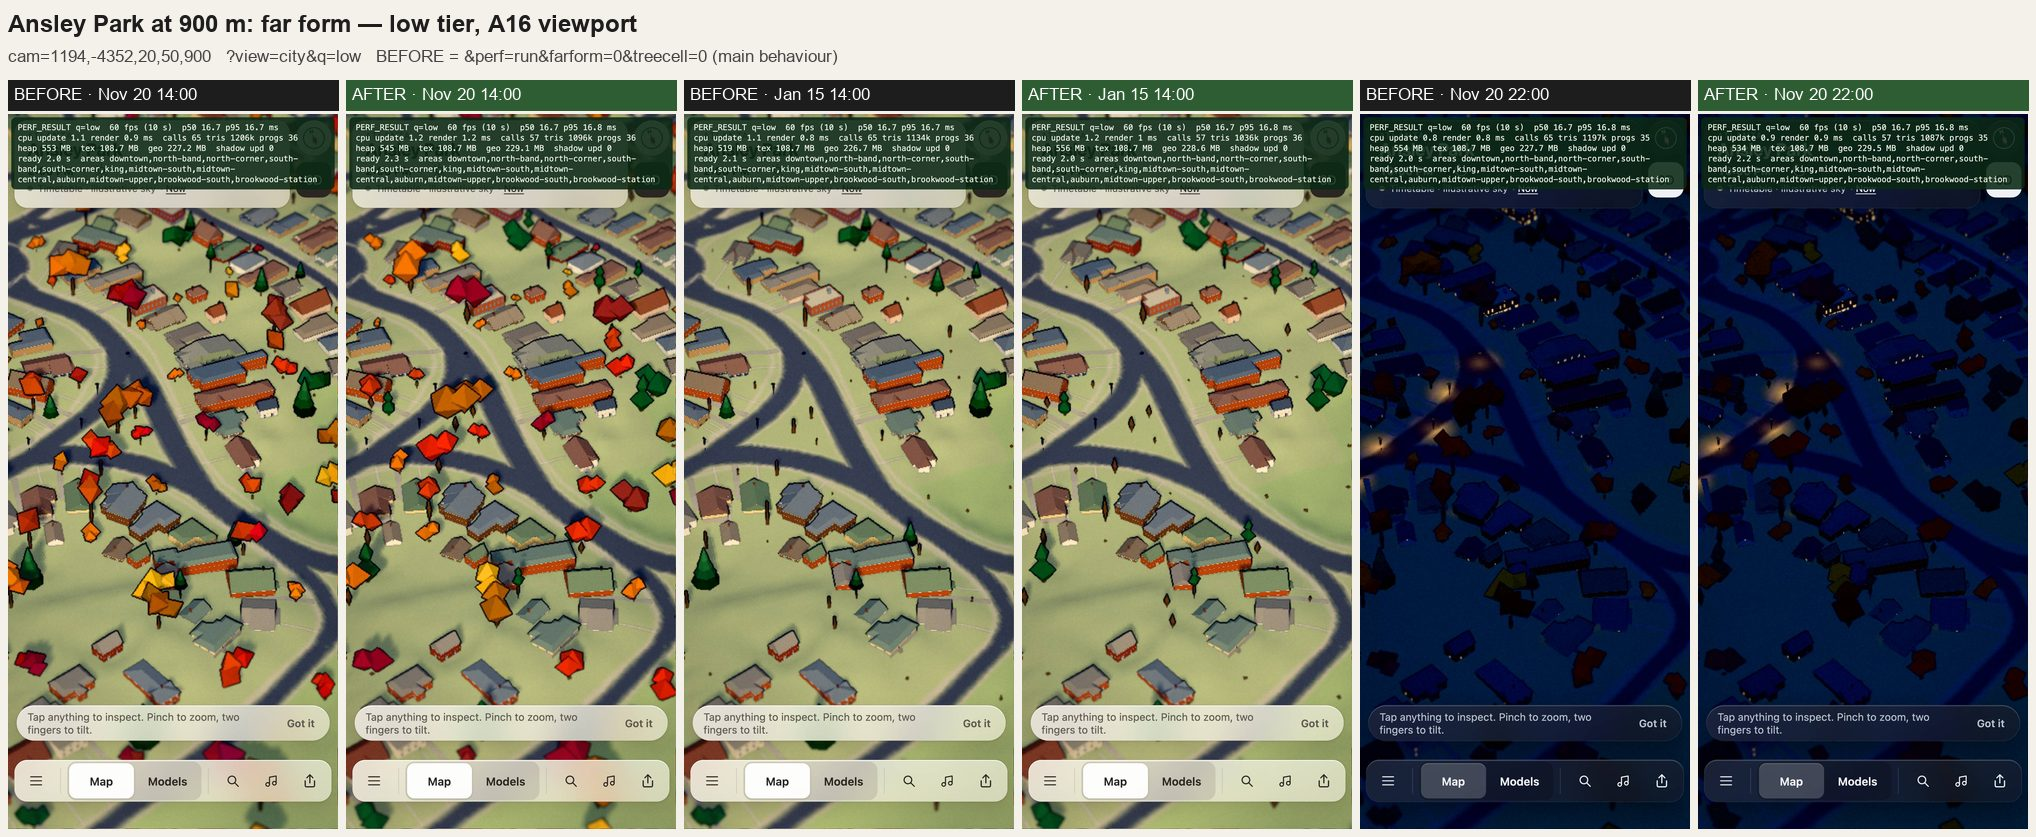
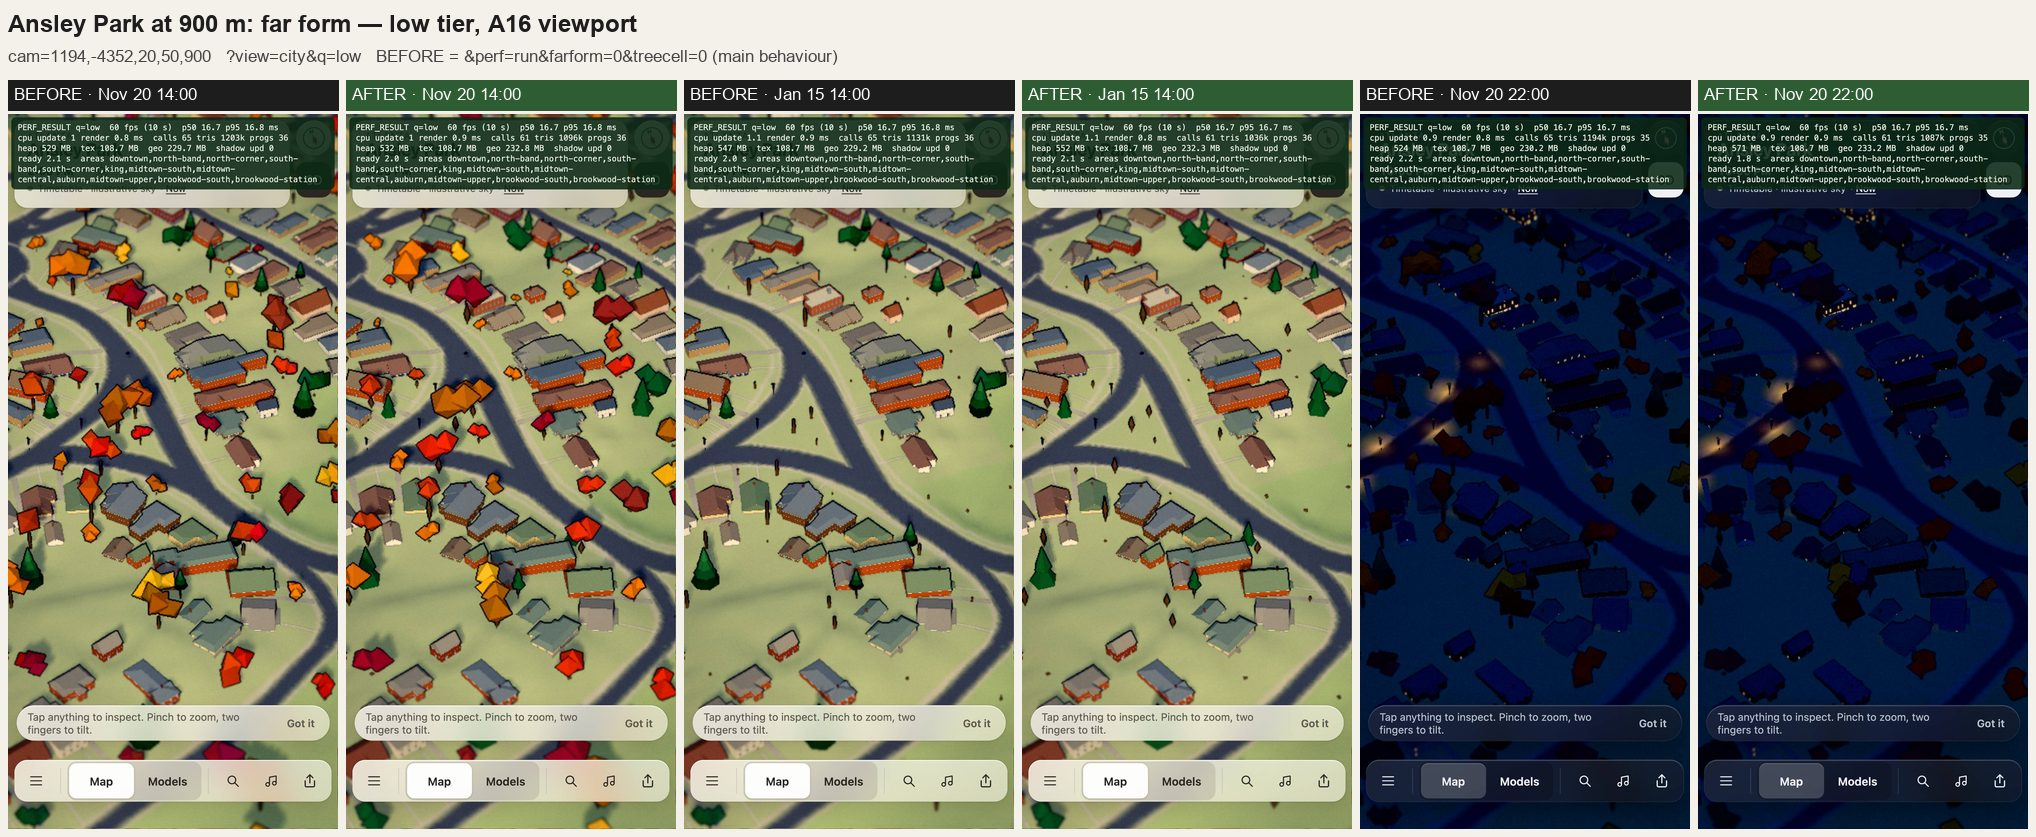
Re-shoot the far-form sheets with cone pines and update the counts

diff --git a/docs/tree-species.md b/docs/tree-species.md
@@ -987,9 +987,10 @@ unchanged.
    sat 2.3 km from its trees. World now submits only the showing clumps and gives every tree mesh
    fixed bounds built from its trees.
 2. **Far form (low).** Past the far-tree orbit (city.ts `FAR_TREES_M`, 800 m out and 680 m back),
-   each area draws its trees as one instanced mesh on the existing leaf material, so there is no new
-   program. Each tree gets two faceted octahedron clumps (pine tiers for a pine) and a trunk: 24
-   triangles. The colours match `World.setSeason`'s. A bare crown keeps only its trunk, as today's
+   each area draws its trees as two instanced meshes on the existing leaf material, so there is no
+   new program. A broadleaf gets two faceted octahedron clumps and a trunk (24 triangles). A pine
+   gets two stacked five-sided cones, because its pointed tiers are the one silhouette that reads
+   from far away. The colours match `World.setSeason`'s. A bare crown keeps only its trunk, as today's
    far view does. The core (`trees/far-canopy.ts`) is pure and safe to run in a Worker, and the
    streaming mid ring will share it.
 3. **Cells (low).** Near trees are batched in 400 m cells, so a close view draws only the cells in
@@ -1000,11 +1001,11 @@ Trees only, at low (`perf=run`, Nov 20 14:00, each view minus `&hide=trees`):
 
 | View | main | compaction | + far form and cells |
 |---|---:|---:|---:|
-| Default open view | 47 calls / 575k | 48 / 487k | 23 / 249k |
+| Default open view | 47 calls / 575k | 48 / 487k | 35 / 252k |
 | Ansley `cam=1194,-4352,20,50,420` | 24 / 534k | 24 / 495k | 32 / 87k |
-| Ansley `cam=1194,-4352,20,50,900` | – | 19 / 265k | 11 / 155k |
+| Ansley `cam=1194,-4352,20,50,900` | – | 19 / 265k | 15 / 158k |
 
-The board totals at the default view go from 580 / 2,327,132 to 555 / 2,089,000. Programs are
+The board totals at the default view go from 579 / 2,325,720 to 567 / 2,092,072. Programs are
 unchanged at every clock (79, 82 and 83), and so is `motion=pan` (80, 83). Geometry rises
 1.8 MB, for the far instance buffers. The remaining `frustumCulled = false` tree meshes are the High
 Museum ginkgo's two (trees/render.ts) and, under `?trees=species`, the rollout looks that

diff --git a/docs/build-log.md b/docs/build-log.md
@@ -3383,4 +3383,4 @@ The NCR headquarters by the Connector was two generic boxes at floor-count heigh
 
 ### 2026-11-24 — The trees that never culled
 
-On the A16, hiding every tree bought six frames a second. The first culprit was invisible. Every pine and every bare crown kept its unused leaf clumps as zero-scaled instances. That still cost the GPU work, and it dragged each canopy mesh's bounding sphere toward the scene origin, 2.3 km from one Brookwood row's trees, so those meshes were never culled. Dropping those slots cut 88k triangles from the phone's default view at no visible cost. Two more changes followed, both on the low tier only. Past 800 m, each area now draws its trees as a single instanced mesh of two faceted clumps and a trunk per tree, coloured exactly like the near trees. Close in, trees are batched in 400 m cells, so only the cells on screen draw. At the default view, trees fall from 47 draws and 575k triangles to 23 and 249k. At Sam's Ansley view, they fall from 534k triangles to 87k. [Sheets](log/ui/tree-species/far-form/far-a900-closeup.jpg).
+On the A16, hiding every tree bought six frames a second. The first culprit was invisible. Every pine and every bare crown kept its unused leaf clumps as zero-scaled instances. That still cost the GPU work, and it dragged each canopy mesh's bounding sphere toward the scene origin, 2.3 km from one Brookwood row's trees, so those meshes were never culled. Dropping those slots cut 88k triangles from the phone's default view at no visible cost. Two more changes followed, both on the low tier only. Past 800 m, each area now draws its trees as two instanced meshes: two faceted clumps and a trunk per broadleaf, coloured exactly like the near trees. Close in, trees are batched in 400 m cells, so only the cells on screen draw. Pines keep their pointed tiers as two stacked cones. At the default view, trees fall from 47 draws and 575k triangles to 35 and 252k. At Sam's Ansley view, they fall from 534k triangles to 87k. [Sheets](log/ui/tree-species/far-form/far-a900-closeup.jpg).
